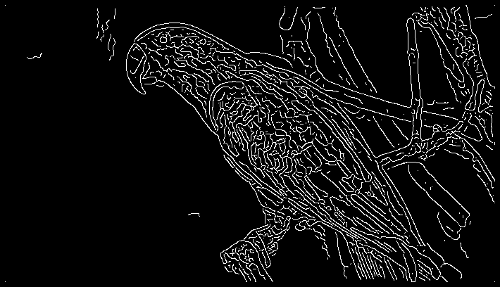
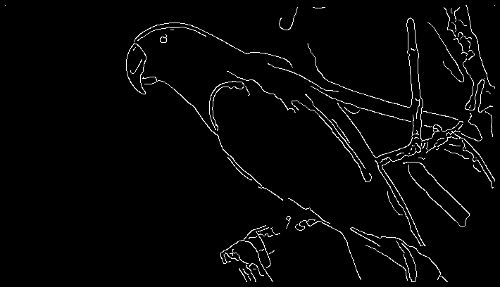
Changed some values to give better printing results

diff --git a/src/ImageProcessor.java b/src/ImageProcessor.java
@@ -11,10 +11,14 @@ import java.io.IOException;
  * Name: Graham Burgsma
  * Created on 30 March, 2016
  */
+
 public class ImageProcessor {
 
-    BufferedImage originalImage, edgeImage;
+    private BufferedImage originalImage, edgeImage;
     private String imageName;
+
+    private static final int MAX_PRINT_WIDTH = 500;
+    private static final int PRINT_THESHOLD = 100;
 
     public ImageProcessor(String imageName) {
         this.imageName = imageName;
@@ -29,22 +33,20 @@ public class ImageProcessor {
     public void cannyEdgeDetector() {
         CannyEdgeDetector cannyEdgeDetector = new CannyEdgeDetector();
         cannyEdgeDetector.setSourceImage(originalImage);
-        cannyEdgeDetector.setLowThreshold(0.5f);
-        cannyEdgeDetector.setHighThreshold(1f);
         cannyEdgeDetector.process();
 
         edgeImage = cannyEdgeDetector.getEdgesImage();
     }
 
     public int[][] imageToMatrix() {
-        BufferedImage resizedImage = Scalr.resize(edgeImage, 500);
+        BufferedImage resizedImage = Scalr.resize(edgeImage, MAX_PRINT_WIDTH);
 
         int[][] imageMatrix = new int[resizedImage.getHeight()][resizedImage.getWidth()];
 
         for (int y = 0; y < resizedImage.getHeight(); y++) {
             for (int x = 0; x < resizedImage.getWidth(); x++) {
                 Color color = new Color(resizedImage.getRGB(x, y));
-                imageMatrix[y][x] = color.getRed() > 125 ? 1 : 0;
+                imageMatrix[y][x] = color.getRed() > PRINT_THESHOLD ? 1 : 0;
             }
         }
 

diff --git a/src/DotPrinter.java b/src/DotPrinter.java
@@ -6,7 +6,7 @@
 public class DotPrinter {
 
     public DotPrinter() {
-        ImageProcessor imageProcessor = new ImageProcessor("parrot.jpg");
+        ImageProcessor imageProcessor = new ImageProcessor("test2.jpg");
         imageProcessor.cannyEdgeDetector();
         imageProcessor.imageToMatrix();
     }
